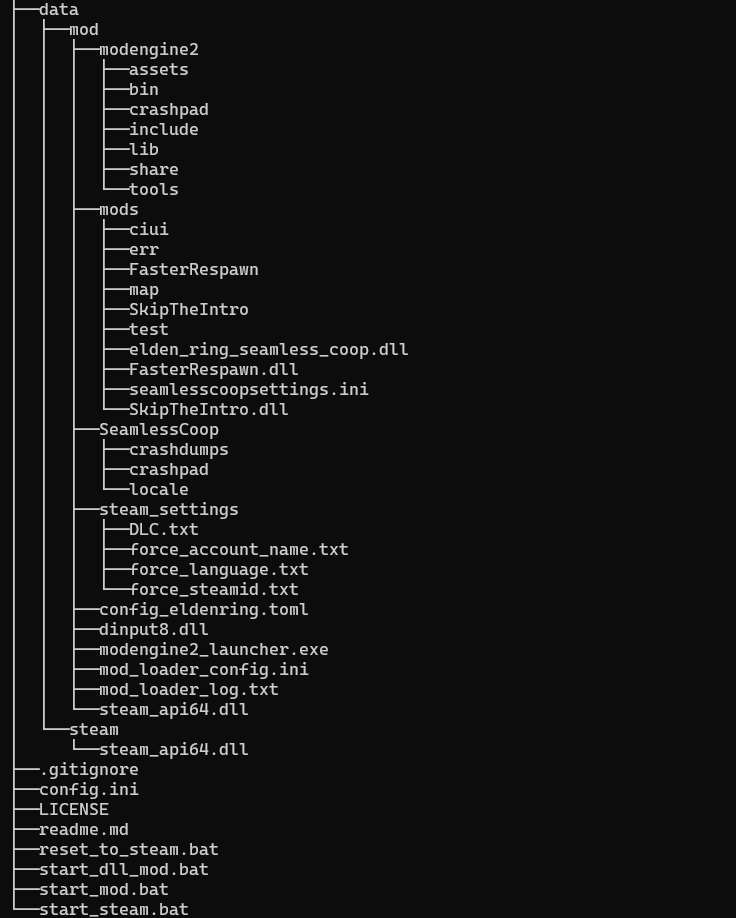
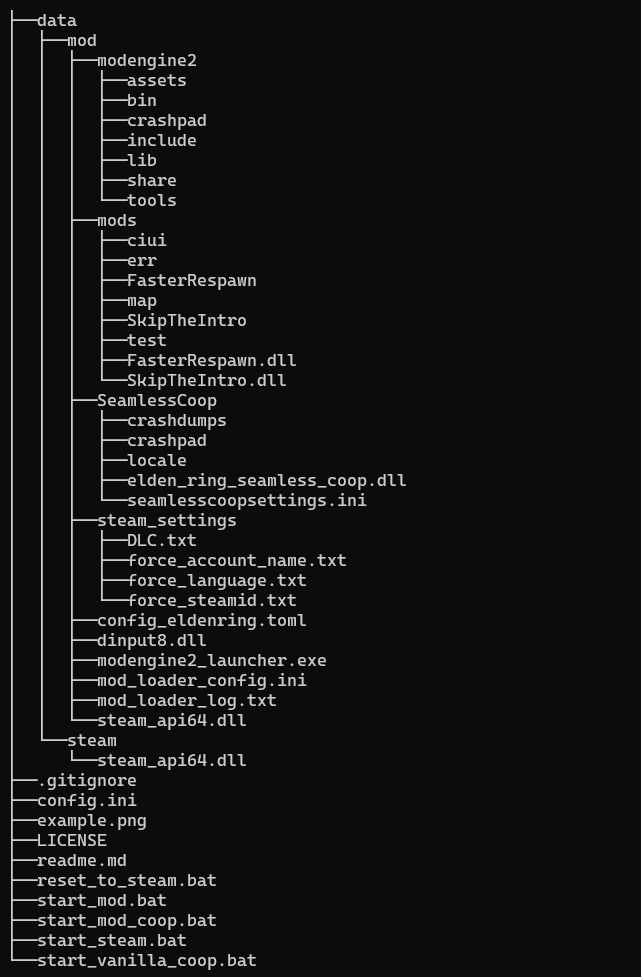
feat: 分开单机启动与无缝联机启动

Changed region(s): [[0.0, 0.0, 0.624, 1.0]]

diff --git a/readme.md b/readme.md
@@ -3,12 +3,13 @@
 ## 介绍
 
 
-|        程序        |                                                        功能                                                        |
-| :------------------: | :------------------------------------------------------------------------------------------------------------------: |
-| reset_to_steam.bat |                                         清除所有mod相关文件，恢复正版状态                                         |
-| start_dll_mod.bat | 如果你安装了dll类mod与modloader，将仅启动dll类mod。否则相当于start_steam.bat，但将使用`./data/mod/steam_api64.dll` |
-|  start_steam.bat  |                                            以steam方式启动，与正版一致                                            |
-|   start_mod.bat   |                                    启动游戏并加载全部mod，包括普通mod及dll类mod                                    |
+|          程序          |                               功能                               |
+| :----------------------: | :----------------------------------------------------------------: |
+|   reset_to_steam.bat   |                清除所有mod相关文件，恢复正版状态                |
+|     start_mod.bat     | 启动游戏并加载全部mod，包括普通mod及dll类mod，但不会启动无缝联机 |
+|    start_steam.bat    |                   以steam方式启动，与正版一致                   |
+|   start_mod_coop.bat   |    启动游戏并加载全部mod，包括普通mod及dll类mod，以及无缝联机    |
+| start_vanilla_coop.bat |                启动无缝联机，但不加载其他任何mod                |
 
 ## 安装
 
